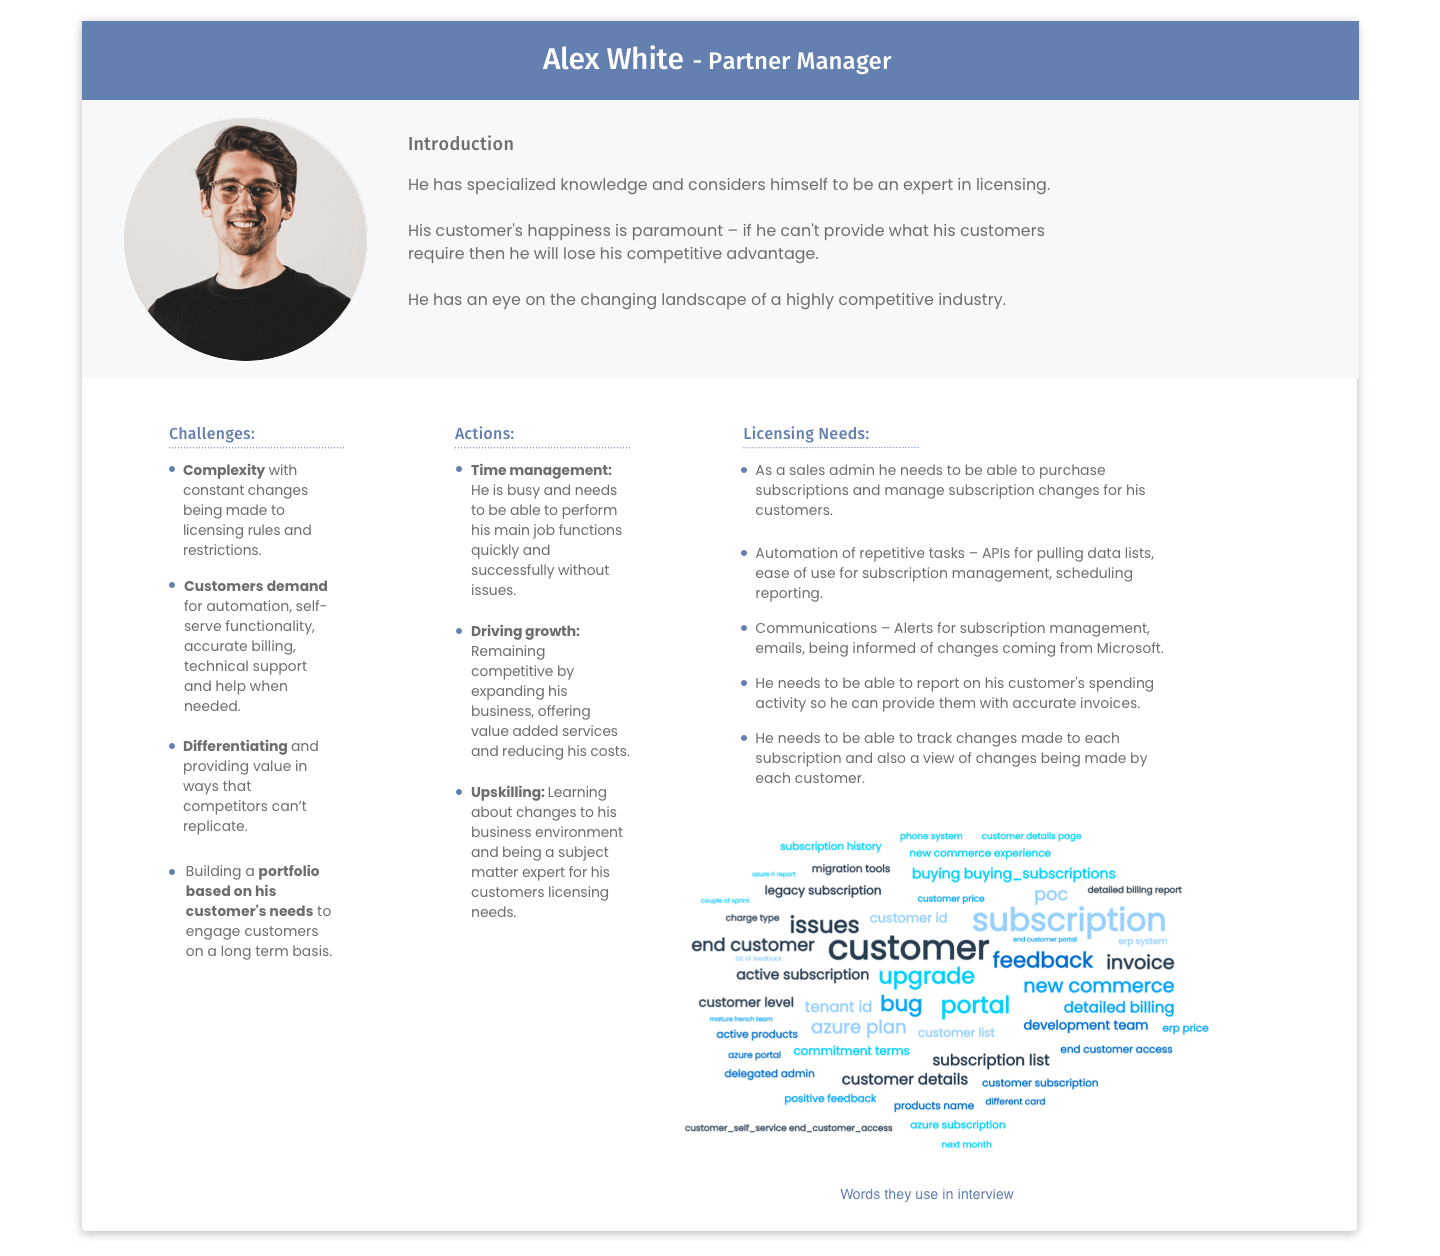
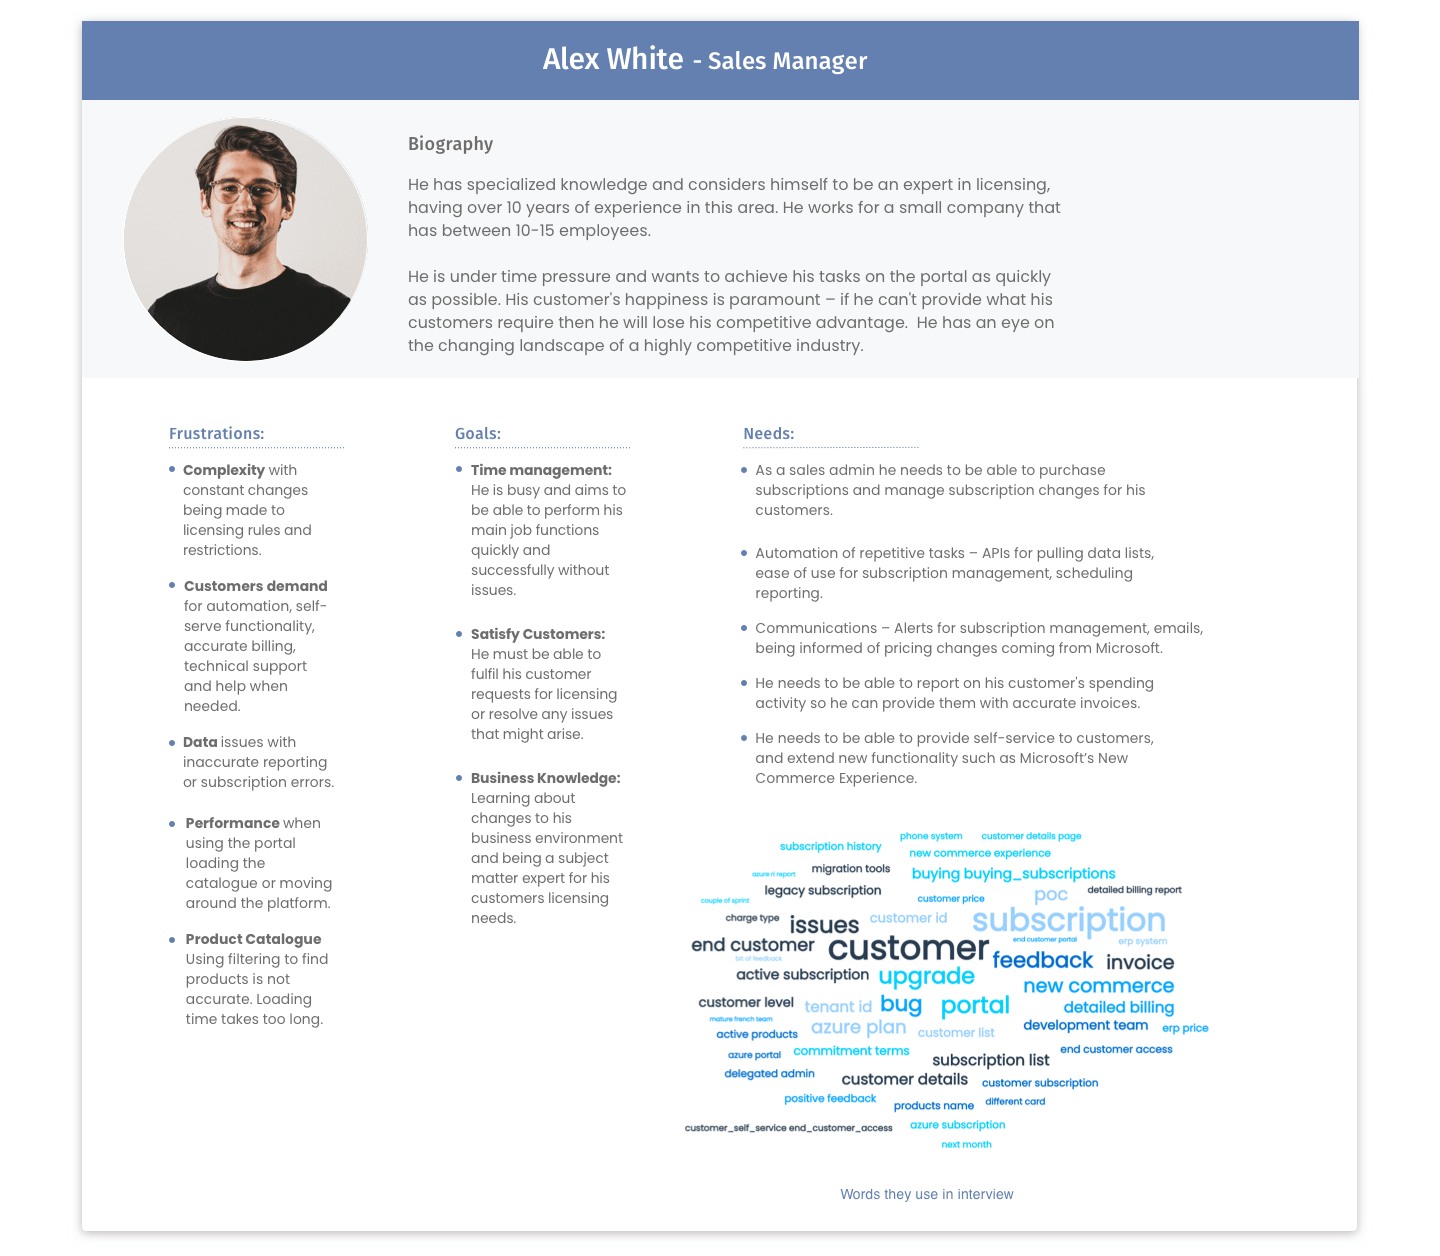
adding miro board

diff --git a/NCE.html b/NCE.html
@@ -235,7 +235,7 @@ This project involved numerous meetings and discussions with key stakeholders an
                                         <div class="row">
                                              <div class="col-xs-12 col-sm-12 col-md-6 col-lg-6">
                                                  <h1 class="number-heading research-padding">
-                                   Persona: Partner Manager</h1>
+                                   Persona: Sales Manager</h1>
                                         </div>
                                         </div> <!--close row-->      
 
@@ -245,18 +245,59 @@ This project involved numerous meetings and discussions with key stakeholders an
                                           <div class="row">
                                      <div class="col-xs-12 col-sm-12 col-md-12 col-lg-12 image-padding ">
                                       <p class="portfolio-detail-body">
-                                        I reviewed the qualitative data gathered from speaking to partners in customer preview calls and this led to the 
+                                        I reviewed the qualitative data gathered from speaking to partners in customer preview calls 
+                                        and identified their Goals, Frustrations and Needs. I then grouped these into post-it notes on a Miro board.
+                                        
+                                     This led to the 
                                         creation of the 
-                                        the 'Partner Manager' persona.
+                                        the 'Sales Manager' persona.
                                         </p>
                                         <p class="portfolio-detail-body">
-                                          He is an expert in licensing and has strong technical knowledge.
-                                        His focus is on <b>remaining competitive</b>, meeting his <B>customers needs </B>and driving <b>business growth.</b></p>
-                                        </p>
+                                          He is an expert in licensing and has strong technical knowledge having over 10 years expereince working in licensing. He works for a small company of 10-50 employees.
+                                        His focus is on <b>remaining competitive</b>, meeting his <B>customers needs </B>and driving <b>business growth.</b>
+                                          He wants to accomplish his job functions as quickly as posssible when using the portal, buying or upsizing licensing for customers or running billing reports.
+                                          He is frustrated by poor backend performance, where he has to wait on pages to load or by missing or inaccurate data on the portal. 
+                                          
+                                      
+                                      </p>
+                                      <p class="portfolio-detail-body">
+                                        Other challenges he faces are the complex and changing business logic and rules that he must be aware of as he is a Microsoft reseller.
+                                        
+                                    
+                                    </p>
+                                
                                       
                                                </div>
                                                </div>
 
+                                               <div class="row">
+                                                <div class="col-lg-12">
+                                                  <h3 class="number-subheading ">
+                                                   Miro Board </h3>
+                                                  
+                                             </div>
+                                            
+                                             </div> <!--close row -->
+                                               
+                                               <div class="row">
+                                        <div class="col-xs-12 col-sm-12 col-md-12 col-lg-12   image-padding  ">
+                                       <img src="assets/images/Miro_Board-min.png"  style="background-color:#FFF; " class="img-responsive" alt="Alex Persona">
+                                                      </div>
+                                          </div> <!-- close row-->
+
+
+
+
+
+                                               <div class="row">
+                                                <div class="col-lg-12">
+                                                  <h3 class="number-subheading ">
+                                                   Partner Persona </h3>
+                                                  
+                                             </div>
+                                            
+                                             </div> <!--close row -->
+                                               
                                                <div class="row">
                                         <div class="col-xs-12 col-sm-12 col-md-12 col-lg-12   image-padding">
                                        <img src="assets/images/OneClub_Persona-min.png"  style="background-color:#FFF; " class="img-responsive" alt="Alex Persona">
